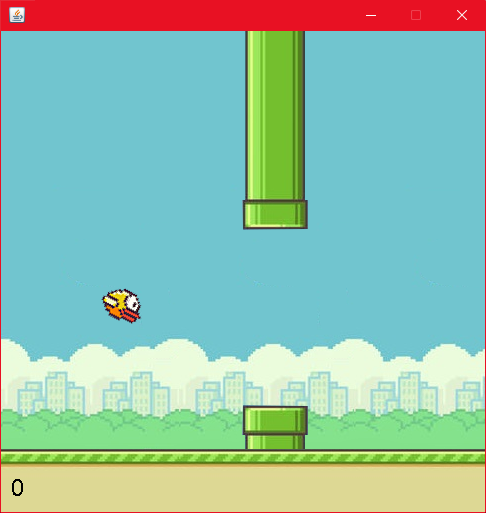
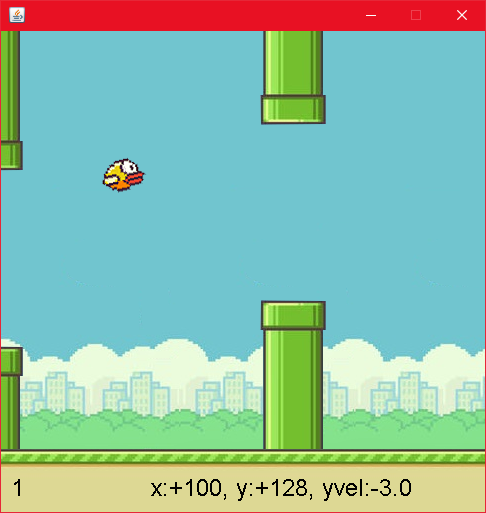
remove magic number 2 (bird.x=100 == (500+2)-3*134)

diff --git a/src/Game.java b/src/Game.java
@@ -106,7 +106,7 @@ public class Game{
 
 			// Look for pipes off the screen
 			for( Pipe pipe : pipes ){
-				if( pipe.x - pipe.width < 0 ){//pipe out of left
+				if( pipe.x - pipe.width < 0 ){//out of left
 					if( northPipe == null ){
 						northPipe= pipe;
 					}else if( southPipe == null ){
@@ -145,7 +145,7 @@ public class Game{
 			if( pipe.collides( bird.x, bird.y, bird.width, bird.height ) ){
 				gameover= true;
 				bird.dead= true;
-			}else if( pipe.x == bird.x && pipe.orientation.equalsIgnoreCase( "south" ) ){
+			}else if( (bird.x > pipe.x + pipe.width) && (bird.x <= pipe.x + pipe.width + pipe.speed)  && pipe.orientation.equalsIgnoreCase( "south" ) ){
 				score++;
 			}
 		}

diff --git a/src/GamePanel.java b/src/GamePanel.java
@@ -47,7 +47,7 @@ public class GamePanel extends JPanel implements Runnable{
 		try{
 			while( true ){
 				update();
-				Thread.sleep( 25 );
+				Thread.sleep( 25 );//[ms]
 			}
 		}catch( Exception e ){
 			e.printStackTrace();

diff --git a/src/Pipe.java b/src/Pipe.java
@@ -19,7 +19,7 @@ public class Pipe{
 	public void reset(){
 		width= 66;
 		height= 400;
-		x= App.WIDTH + 2;
+		x= App.WIDTH;
 
 		if( orientation.equals( "south" ) ){
 			y= -(int)(Math.random() * 120) - height / 2;
